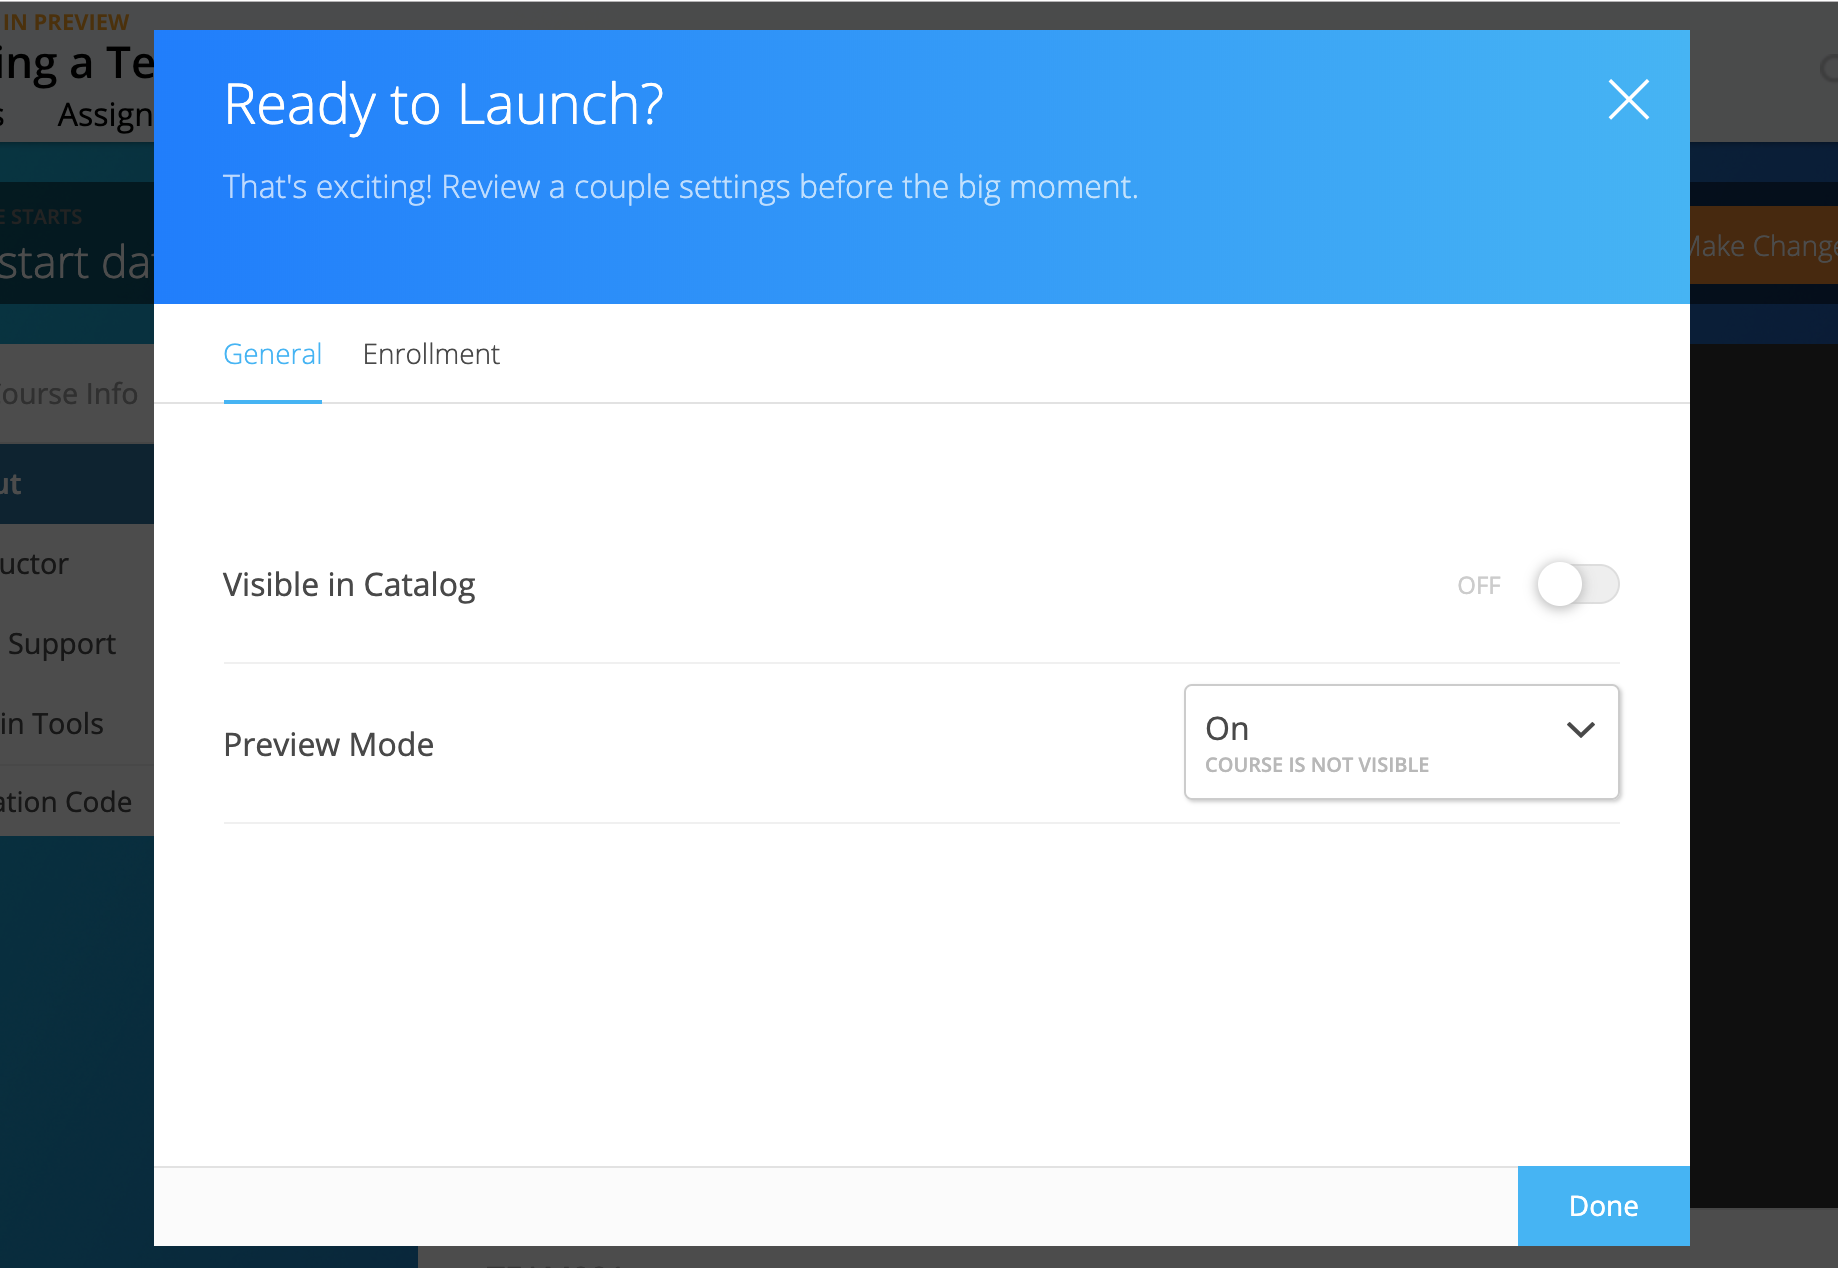
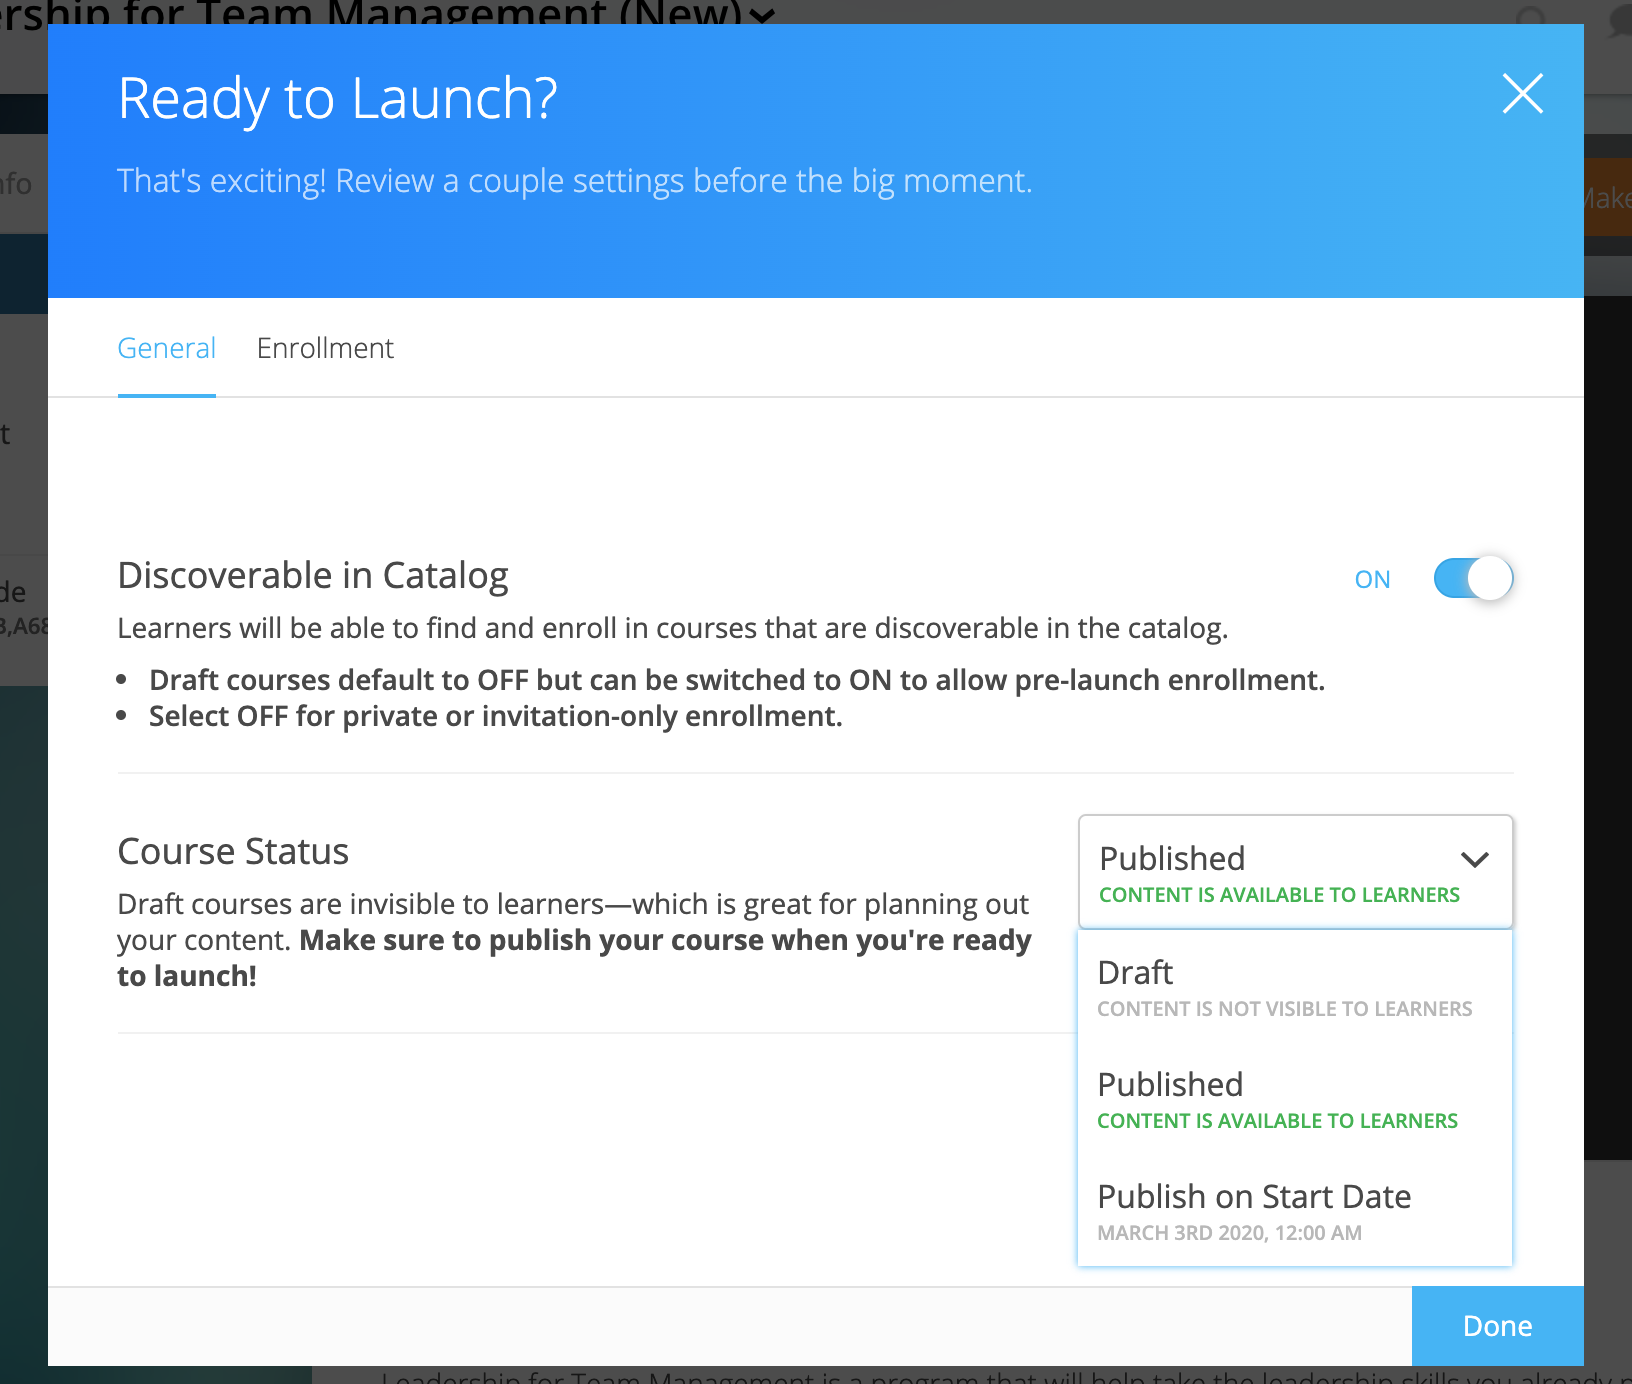
update admin ready to launch description and image

Changed region(s): [[0.0, 0.0, 1.0, 1.0], [0.8438, 0.4306, 0.875, 0.4921]]

diff --git a/adminguide/createcourse.rst b/adminguide/createcourse.rst
@@ -78,7 +78,7 @@ To get started, click on the "Make Changes" button on the course's Course Info p
 
 **Visible in Catalog**
 
-The "Visible in Catalog" field allows you to toggle course visibility within the course catalog. 
+The "Discoverable in Catalog" field allows you to toggle course visibility within the course catalog. 
 
 - **Off:**
   This option will keep the course private. This means that the course will not show up in the public course catalog. No one will be able to enroll in the course unless you provide them with the course redemption code.
@@ -86,22 +86,27 @@ The "Visible in Catalog" field allows you to toggle course visibility within the
 - **On:**
   This will allow the course to display in the course catalog. This means that when a site user clicks on the course catalog, the course will display and the learner can view basic course information and enroll in the course.
 
-**Preview Mode**
+**Course Status**
 
-The "Preview Mode" defines when the course becomes available for learners to begin.
+This option defines when the course becomes available for learners to begin.
 
-- **Preview Mode On:**
-  This option sets the course to course preview mode, meaning that users can only view Course Info and cannot view course content.
+- **Draft:**
+  This option makes the course invisible to learners while you create and edit your course; however, if you want to allow early enrollment, you can set the course Status to "Draft" and Discoverable to "On." This will allows learners to enroll, but the content will remain invisible.
   
-- **Preview Mode Off:**
+- **Published:**
   This option allows the course to be fully available to users.
   
-- **Based on Start Date:**
+- **Publish on Start Date:**
   This option sets the course to be in course preview mode until the defined start date and time, at which time it will then become fully available to users.
   
-.. image:: images/coursepreviewmode4.png
 
-..  note:: By default the course will be in **Preview Mode On** and will need to be either switched to **Preview Mode Off** or **Based on Start Date** for users to begin the course. 
+..  note:: By default the course will be "Off" for Discoverable in Catalog and in "Draft."
+
+**Enrollment Options**
+
+The next tab within the Ready to Launch menu allows you to turn on or off "Open Enrollment." This option determines if the "Enroll" button is available from within the course catalog. If learners should enroll through another application instead of directly on NextThought, you can turn this option off. 
+
+.. image:: images/readytolaunchenroll.png
 
 
 Basic Course Information
